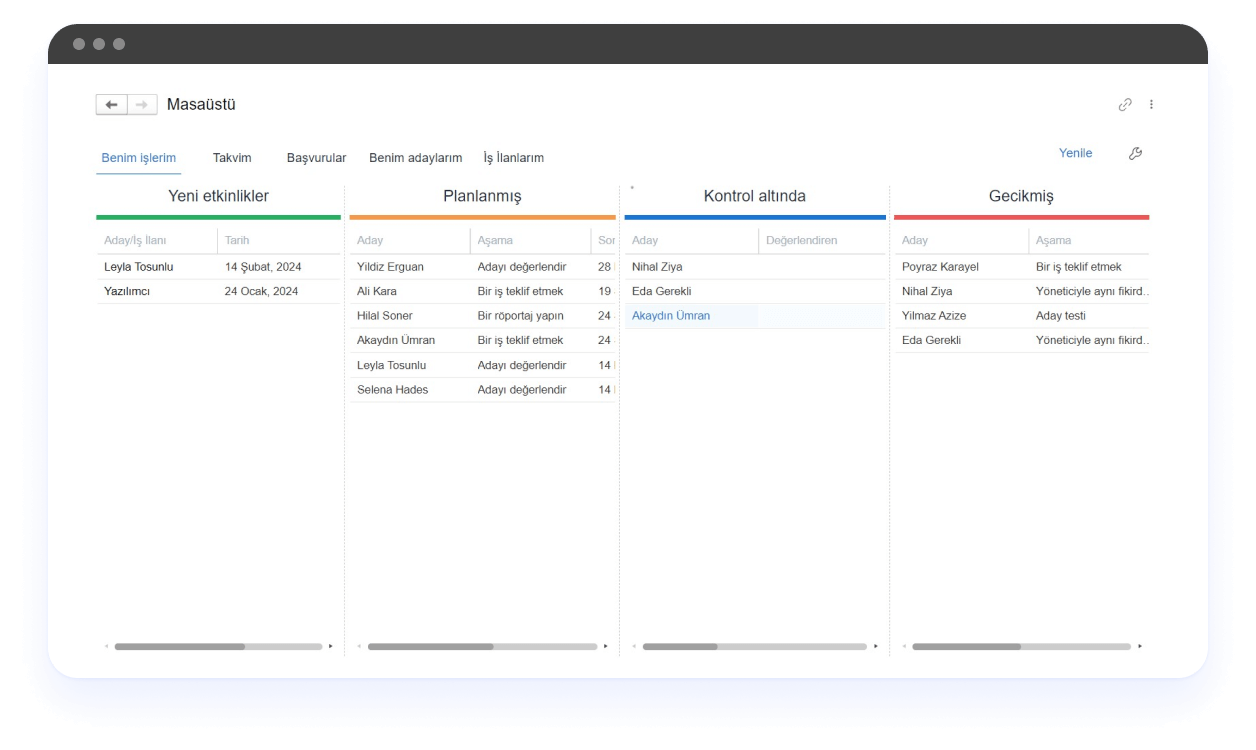
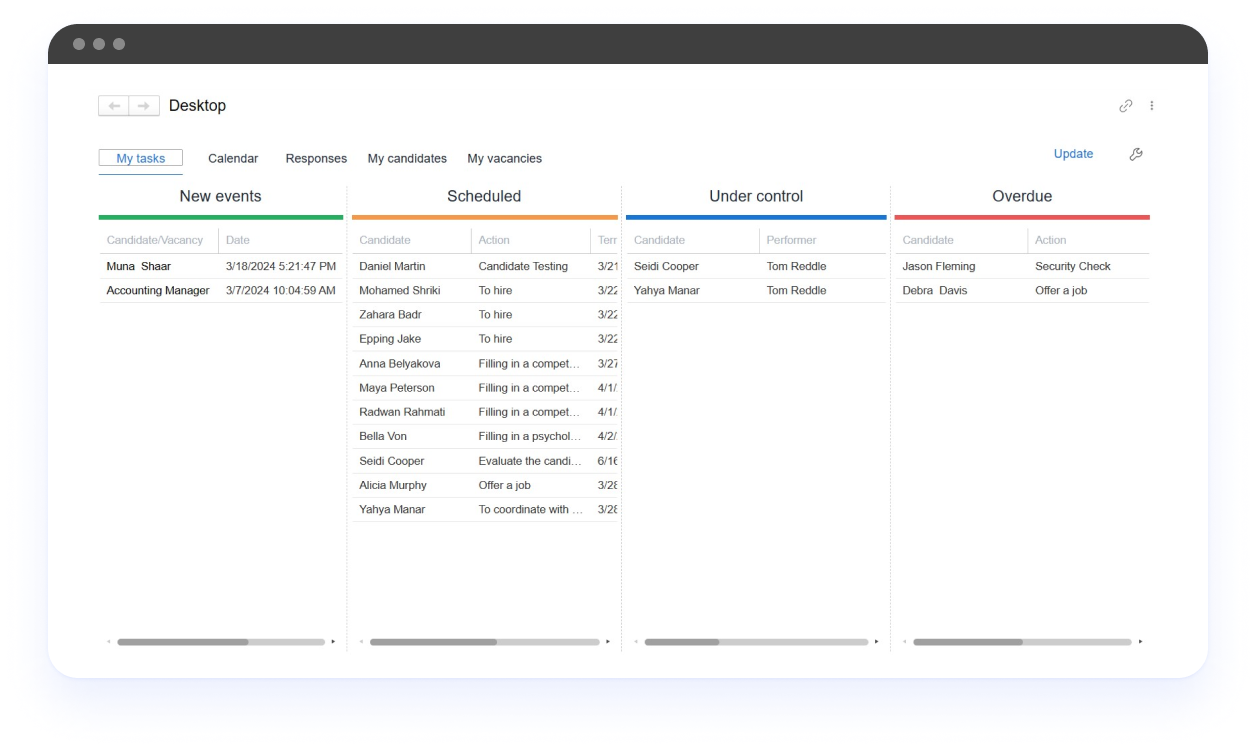
img_corr

diff --git a/versions/turkish/pages/team_recruit.html b/versions/turkish/pages/team_recruit.html
@@ -589,7 +589,7 @@
             <div class="section-content">
                 <p>TeamRecruit, işe alım uzmanınızın çalışma alanını düzenlemenize ve adaylarla bir kanban panosu biçiminde çalışmanıza olanak tanır.</p>
                 <figure>
-                    <img src="../../../src/../src/img/pages/team_recruit/CRM.png" alt="CRM">
+                    <img src="../../../src/../src/img/pages/team_recruit/turkish-img/CRM.png" alt="CRM">
                 </figure>
             </div>
         </section>
